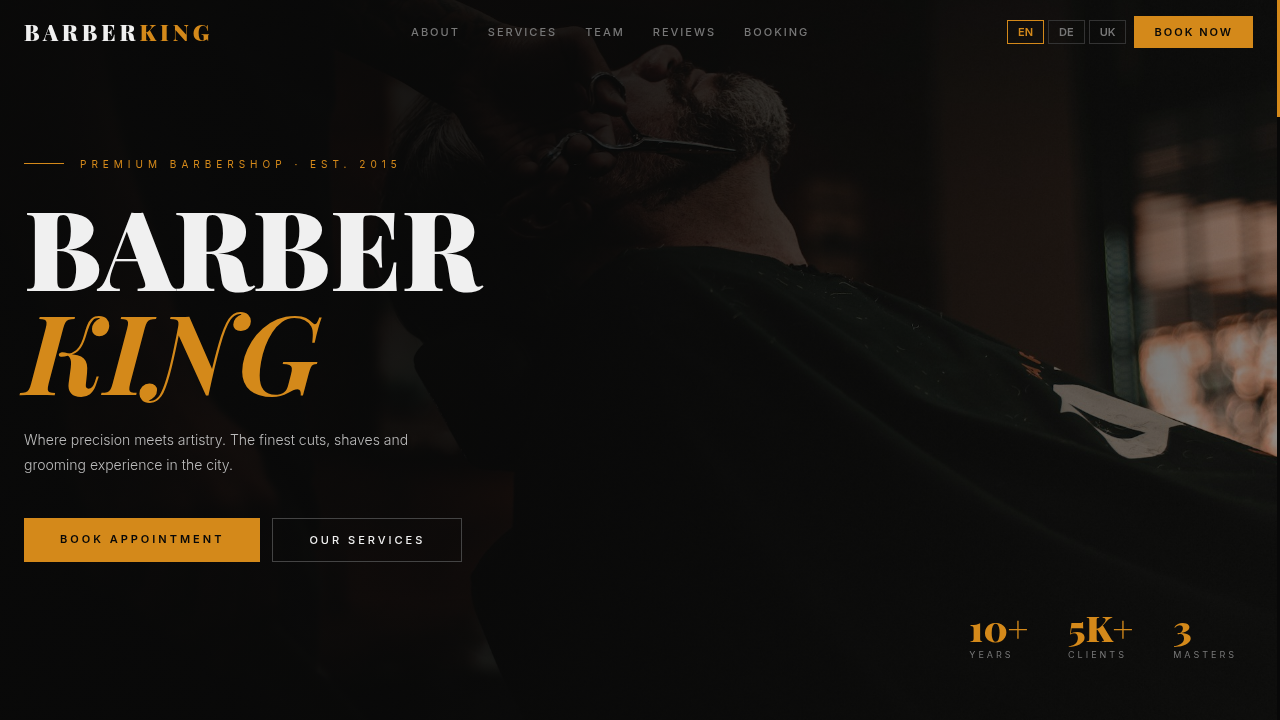
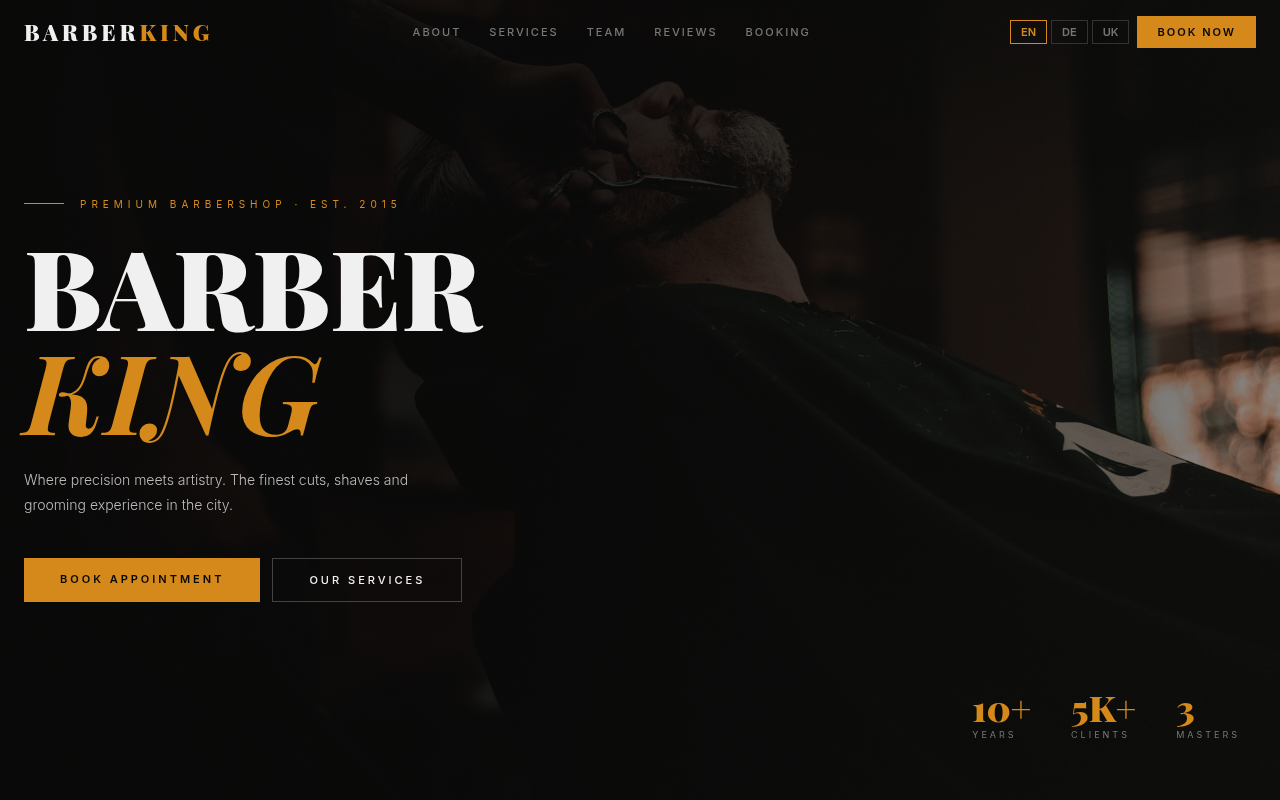
Updates

diff --git a/index.html b/index.html
@@ -1,1 +1,1 @@
-<!doctype html><html lang="en"><head><meta charset="utf-8"/><link rel="icon" href="/portfolio/favicon.ico"/><meta name="viewport" content="width=device-width,initial-scale=1"/><meta name="theme-color" content="#000000"/><meta name="description" content="Web site created using create-react-app"/><link rel="apple-touch-icon" href="/portfolio/logo192.png"/><link rel="manifest" href="/portfolio/manifest.json"/><title>React App</title><script defer="defer" src="/portfolio/static/js/main.08085f1f.js"></script><link href="/portfolio/static/css/main.17011279.css" rel="stylesheet"></head><body><noscript>You need to enable JavaScript to run this app.</noscript><div id="root"></div></body></html>
+<!doctype html><html lang="en"><head><meta charset="utf-8"/><link rel="icon" href="/portfolio/favicon.ico"/><meta name="viewport" content="width=device-width,initial-scale=1"/><meta name="theme-color" content="#000000"/><meta name="description" content="Web site created using create-react-app"/><link rel="apple-touch-icon" href="/portfolio/logo192.png"/><link rel="manifest" href="/portfolio/manifest.json"/><title>React App</title><script defer="defer" src="/portfolio/static/js/main.08085f1f.js"></script><link href="/portfolio/static/css/main.a2c620d4.css" rel="stylesheet"></head><body><noscript>You need to enable JavaScript to run this app.</noscript><div id="root"></div></body></html>

diff --git a/static/css/main.a2c620d4.css b/static/css/main.a2c620d4.css
@@ -1,0 +1,2 @@
+@layer theme, base, components, utilities;@layer theme{@theme default{--font-sans:ui-sans-serif,system-ui,sans-serif,"Apple Color Emoji","Segoe UI Emoji","Segoe UI Symbol","Noto Color Emoji";--font-serif:ui-serif,Georgia,Cambria,"Times New Roman",Times,serif;--font-mono:ui-monospace,SFMono-Regular,Menlo,Monaco,Consolas,"Liberation Mono","Courier New",monospace;--color-red-50:oklch(97.1% [phone redacted]);--color-red-100:oklch(93.6% [phone redacted]);--color-red-200:oklch(88.5% [phone redacted]);--color-red-300:oklch(80.8% [phone redacted]);--color-red-400:oklch(70.4% [phone redacted]);--color-red-500:oklch(63.7% [phone redacted]);--color-red-600:oklch(57.7% [phone redacted]);--color-red-700:oklch(50.5% [phone redacted]);--color-red-800:oklch(44.4% [phone redacted]);--color-red-900:oklch(39.6% [phone redacted]);--color-red-950:oklch(25.8% [phone redacted]);--color-orange-50:oklch(98% [phone redacted]);--color-orange-100:oklch(95.4% [phone redacted]);--color-orange-200:oklch(90.1% [phone redacted]);--color-orange-300:oklch(83.7% [phone redacted]);--color-orange-400:oklch(75% [phone redacted]);--color-orange-500:oklch(70.5% [phone redacted]);--color-orange-600:oklch(64.6% [phone redacted]);--color-orange-700:oklch(55.3% [phone redacted]);--color-orange-800:oklch(47% [phone redacted]);--color-orange-900:oklch(40.8% [phone redacted]);--color-orange-950:oklch(26.6% [phone redacted]);--color-amber-50:oklch(98.7% [phone redacted]);--color-amber-100:oklch(96.2% [phone redacted]);--color-amber-200:oklch(92.4% [phone redacted]);--color-amber-300:oklch(87.9% [phone redacted]);--color-amber-400:oklch(82.8% [phone redacted]);--color-amber-500:oklch(76.9% [phone redacted]);--color-amber-600:oklch(66.6% [phone redacted]);--color-amber-700:oklch(55.5% [phone redacted]);--color-amber-800:oklch(47.3% [phone redacted]);--color-amber-900:oklch(41.4% [phone redacted]);--color-amber-950:oklch(27.9% [phone redacted]);--color-yellow-50:oklch(98.7% [phone redacted]);--color-yellow-100:oklch(97.3% [phone redacted]);--color-yellow-200:oklch(94.5% [phone redacted]);--color-yellow-300:oklch(90.5% [phone redacted]);--color-yellow-400:oklch(85.2% [phone redacted]);--color-yellow-500:oklch(79.5% [phone redacted]);--color-yellow-600:oklch(68.1% [phone redacted]);--color-yellow-700:oklch(55.4% [phone redacted]);--color-yellow-800:oklch(47.6% [phone redacted]);--color-yellow-900:oklch(42.1% [phone redacted]);--color-yellow-950:oklch(28.6% [phone redacted]);--color-lime-50:oklch(98.6% [phone redacted]);--color-lime-100:oklch(96.7% [phone redacted]);--color-lime-200:oklch(93.8% [phone redacted]);--color-lime-300:oklch(89.7% [phone redacted]);--color-lime-400:oklch(84.1% [phone redacted]);--color-lime-500:oklch(76.8% [phone redacted]);--color-lime-600:oklch(64.8% [phone redacted]);--color-lime-700:oklch(53.2% [phone redacted]);--color-lime-800:oklch(45.3% [phone redacted]);--color-lime-900:oklch(40.5% [phone redacted]);--color-lime-950:oklch(27.4% [phone redacted]);--color-green-50:oklch(98.2% [phone redacted]);--color-green-100:oklch(96.2% [phone redacted]);--color-green-200:oklch(92.5% [phone redacted]);--color-green-300:oklch(87.1% [phone redacted]);--color-green-400:oklch(79.2% [phone redacted]);--color-green-500:oklch(72.3% [phone redacted]);--color-green-600:oklch(62.7% [phone redacted]);--color-green-700:oklch(52.7% [phone redacted]);--color-green-800:oklch(44.8% [phone redacted]);--color-green-900:oklch(39.3% [phone redacted]);--color-green-950:oklch(26.6% [phone redacted]);--color-emerald-50:oklch(97.9% [phone redacted]);--color-emerald-100:oklch(95% [phone redacted]);--color-emerald-200:oklch(90.5% [phone redacted]);--color-emerald-300:oklch(84.5% [phone redacted]);--color-emerald-400:oklch(76.5% [phone redacted]);--color-emerald-500:oklch(69.6% [phone redacted]);--color-emerald-600:oklch(59.6% [phone redacted]);--color-emerald-700:oklch(50.8% [phone redacted]);--color-emerald-800:oklch(43.2% [phone redacted]);--color-emerald-900:oklch(37.8% [phone redacted]);--color-emerald-950:oklch(26.2% [phone redacted]);--color-teal-50:oklch(98.4% [phone redacted]);--color-teal-100:oklch(95.3% [phone redacted]);--color-teal-200:oklch(91% [phone redacted]);--color-teal-300:oklch(85.5% [phone redacted]);--color-teal-400:oklch(77.7% [phone redacted]);--color-teal-500:oklch(70.4% [phone redacted]);--color-teal-600:oklch(60% [phone redacted]);--color-teal-700:oklch(51.1% [phone redacted]);--color-teal-800:oklch(43.7% [phone redacted]);--color-teal-900:oklch(38.6% [phone redacted]);--color-teal-950:oklch(27.7% [phone redacted]);--color-cyan-50:oklch(98.4% [phone redacted]);--color-cyan-100:oklch(95.6% [phone redacted]);--color-cyan-200:oklch(91.7% [phone redacted]);--color-cyan-300:oklch(86.5% [phone redacted]);--color-cyan-400:oklch(78.9% [phone redacted]);--color-cyan-500:oklch(71.5% [phone redacted]);--color-cyan-600:oklch(60.9% [phone redacted]);--color-cyan-700:oklch(52% [phone redacted]);--color-cyan-800:oklch(45% [phone redacted]);--color-cyan-900:oklch(39.8% [phone redacted]);--color-cyan-950:oklch(30.2% [phone redacted]);--color-sky-50:oklch(97.7% [phone redacted]);--color-sky-100:oklch(95.1% [phone redacted]);--color-sky-200:oklch(90.1% [phone redacted]);--color-sky-300:oklch(82.8% [phone redacted]);--color-sky-400:oklch(74.6% [phone redacted]);--color-sky-500:oklch(68.5% [phone redacted]);--color-sky-600:oklch(58.8% [phone redacted]);--color-sky-700:oklch(50% [phone redacted]);--color-sky-800:oklch(44.3% [phone redacted]);--color-sky-900:oklch(39.1% [phone redacted]);--color-sky-950:oklch(29.3% [phone redacted]);--color-blue-50:oklch(97% [phone redacted]);--color-blue-100:oklch(93.2% [phone redacted]);--color-blue-200:oklch(88.2% [phone redacted]);--color-blue-300:oklch(80.9% [phone redacted]);--color-blue-400:oklch(70.7% [phone redacted]);--color-blue-500:oklch(62.3% [phone redacted]);--color-blue-600:oklch(54.6% [phone redacted]);--color-blue-700:oklch(48.8% [phone redacted]);--color-blue-800:oklch(42.4% [phone redacted]);--color-blue-900:oklch(37.9% [phone redacted]);--color-blue-950:oklch(28.2% [phone redacted]);--color-indigo-50:oklch(96.2% [phone redacted]);--color-indigo-100:oklch(93% [phone redacted]);--color-indigo-200:oklch(87% [phone redacted]);--color-indigo-300:oklch(78.5% [phone redacted]);--color-indigo-400:oklch(67.3% [phone redacted]);--color-indigo-500:oklch(58.5% [phone redacted]);--color-indigo-600:oklch(51.1% [phone redacted]);--color-indigo-700:oklch(45.7% [phone redacted]);--color-indigo-800:oklch(39.8% [phone redacted]);--color-indigo-900:oklch(35.9% [phone redacted]);--color-indigo-950:oklch(25.7% [phone redacted]);--color-violet-50:oklch(96.9% [phone redacted]);--color-violet-100:oklch(94.3% [phone redacted]);--color-violet-200:oklch(89.4% [phone redacted]);--color-violet-300:oklch(81.1% [phone redacted]);--color-violet-400:oklch(70.2% [phone redacted]);--color-violet-500:oklch(60.6% [phone redacted]);--color-violet-600:oklch(54.1% [phone redacted]);--color-violet-700:oklch(49.1% [phone redacted]);--color-violet-800:oklch(43.2% [phone redacted]);--color-violet-900:oklch(38% [phone redacted]);--color-violet-950:oklch(28.3% [phone redacted]);--color-purple-50:oklch(97.7% [phone redacted]);--color-purple-100:oklch(94.6% [phone redacted]);--color-purple-200:oklch(90.2% [phone redacted]);--color-purple-300:oklch(82.7% [phone redacted]);--color-purple-400:oklch(71.4% [phone redacted]);--color-purple-500:oklch(62.7% [phone redacted]);--color-purple-600:oklch(55.8% [phone redacted]);--color-purple-700:oklch(49.6% [phone redacted]);--color-purple-800:oklch(43.8% [phone redacted]);--color-purple-900:oklch(38.1% [phone redacted]);--color-purple-950:oklch(29.1% [phone redacted]);--color-fuchsia-50:oklch(97.7% [phone redacted]);--color-fuchsia-100:oklch(95.2% [phone redacted]);--color-fuchsia-200:oklch(90.3% [phone redacted]);--color-fuchsia-300:oklch(83.3% [phone redacted]);--color-fuchsia-400:oklch(74% [phone redacted]);--color-fuchsia-500:oklch(66.7% [phone redacted]);--color-fuchsia-600:oklch(59.1% [phone redacted]);--color-fuchsia-700:oklch(51.8% [phone redacted]);--color-fuchsia-800:oklch(45.2% [phone redacted]);--color-fuchsia-900:oklch(40.1% [phone redacted]);--color-fuchsia-950:oklch(29.3% [phone redacted]);--color-pink-50:oklch(97.1% [phone redacted]);--color-pink-100:oklch(94.8% [phone redacted]);--color-pink-200:oklch(89.9% [phone redacted]);--color-pink-300:oklch(82.3% [phone redacted]);--color-pink-400:oklch(71.8% [phone redacted]);--color-pink-500:oklch(65.6% [phone redacted]);--color-pink-600:oklch(59.2% [phone redacted]);--color-pink-700:oklch(52.5% [phone redacted]);--color-pink-800:oklch(45.9% [phone redacted]);--color-pink-900:oklch(40.8% [phone redacted]);--color-pink-950:oklch(28.4% [phone redacted]);--color-rose-50:oklch(96.9% [phone redacted]);--color-rose-100:oklch(94.1% [phone redacted]);--color-rose-200:oklch(89.2% [phone redacted]);--color-rose-300:oklch(81% [phone redacted]);--color-rose-400:oklch(71.2% [phone redacted]);--color-rose-500:oklch(64.5% [phone redacted]);--color-rose-600:oklch(58.6% [phone redacted]);--color-rose-700:oklch(51.4% [phone redacted]);--color-rose-800:oklch(45.5% [phone redacted]);--color-rose-900:oklch(41% [phone redacted]);--color-rose-950:oklch(27.1% [phone redacted]);--color-slate-50:oklch(98.4% [phone redacted]);--color-slate-100:oklch(96.8% [phone redacted]);--color-slate-200:oklch(92.9% [phone redacted]);--color-slate-300:oklch(86.9% [phone redacted]);--color-slate-400:oklch(70.4% [phone redacted]);--color-slate-500:oklch(55.4% [phone redacted]);--color-slate-600:oklch(44.6% [phone redacted]);--color-slate-700:oklch(37.2% [phone redacted]);--color-slate-800:oklch(27.9% [phone redacted]);--color-slate-900:oklch(20.8% [phone redacted]);--color-slate-950:oklch(12.9% [phone redacted]);--color-gray-50:oklch(98.5% [phone redacted]);--color-gray-100:oklch(96.7% [phone redacted]);--color-gray-200:oklch(92.8% [phone redacted]);--color-gray-300:oklch(87.2% [phone redacted]);--color-gray-400:oklch(70.7% [phone redacted]);--color-gray-500:oklch(55.1% [phone redacted]);--color-gray-600:oklch(44.6% [phone redacted]);--color-gray-700:oklch(37.3% [phone redacted]);--color-gray-800:oklch(27.8% [phone redacted]);--color-gray-900:oklch(21% [phone redacted]);--color-gray-950:oklch(13% [phone redacted]);--color-zinc-50:oklch(98.5% 0 0);--color-zinc-100:oklch(96.7% [phone redacted]);--color-zinc-200:oklch(92% [phone redacted]);--color-zinc-300:oklch(87.1% [phone redacted]);--color-zinc-400:oklch(70.5% [phone redacted]);--color-zinc-500:oklch(55.2% [phone redacted]);--color-zinc-600:oklch(44.2% [phone redacted]);--color-zinc-700:oklch(37% [phone redacted]);--color-zinc-800:oklch(27.4% [phone redacted]);--color-zinc-900:oklch(21% [phone redacted]);--color-zinc-950:oklch(14.1% [phone redacted]);--color-neutral-50:oklch(98.5% 0 0);--color-neutral-100:oklch(97% 0 0);--color-neutral-200:oklch(92.2% 0 0);--color-neutral-300:oklch(87% 0 0);--color-neutral-400:oklch(70.8% 0 0);--color-neutral-500:oklch(55.6% 0 0);--color-neutral-600:oklch(43.9% 0 0);--color-neutral-700:oklch(37.1% 0 0);--color-neutral-800:oklch(26.9% 0 0);--color-neutral-900:oklch(20.5% 0 0);--color-neutral-950:oklch(14.5% 0 0);--color-stone-50:oklch(98.5% [phone redacted]);--color-stone-100:oklch(97% [phone redacted]);--color-stone-200:oklch(92.3% [phone redacted]);--color-stone-300:oklch(86.9% [phone redacted]);--color-stone-400:oklch(70.9% [phone redacted]);--color-stone-500:oklch(55.3% [phone redacted]);--color-stone-600:oklch(44.4% [phone redacted]);--color-stone-700:oklch(37.4% [phone redacted]);--color-stone-800:oklch(26.8% [phone redacted]);--color-stone-900:oklch(21.6% [phone redacted]);--color-stone-950:oklch(14.7% [phone redacted]);--color-mauve-50:oklch(98.5% 0 0);--color-mauve-100:oklch(96% [phone redacted]);--color-mauve-200:oklch(92.2% [phone redacted]);--color-mauve-300:oklch(86.5% [phone redacted]);--color-mauve-400:oklch(71.1% [phone redacted]);--color-mauve-500:oklch(54.2% [phone redacted]);--color-mauve-600:oklch(43.5% [phone redacted]);--color-mauve-700:oklch(36.4% [phone redacted]);--color-mauve-800:oklch(26.3% [phone redacted]);--color-mauve-900:oklch(21.2% [phone redacted]);--color-mauve-950:oklch(14.5% [phone redacted]);--color-olive-50:oklch(98.8% [phone redacted]);--color-olive-100:oklch(96.6% [phone redacted]);--color-olive-200:oklch(93% [phone redacted]);--color-olive-300:oklch(88% [phone redacted]);--color-olive-400:oklch(73.7% [phone redacted]);--color-olive-500:oklch(58% [phone redacted]);--color-olive-600:oklch(46.6% [phone redacted]);--color-olive-700:oklch(39.4% [phone redacted]);--color-olive-800:oklch(28.6% [phone redacted]);--color-olive-900:oklch(22.8% [phone redacted]);--color-olive-950:oklch(15.3% [phone redacted]);--color-mist-50:oklch(98.7% [phone redacted]);--color-mist-100:oklch(96.3% [phone redacted]);--color-mist-200:oklch(92.5% [phone redacted]);--color-mist-300:oklch(87.2% [phone redacted]);--color-mist-400:oklch(72.3% [phone redacted]);--color-mist-500:oklch(56% [phone redacted]);--color-mist-600:oklch(45% [phone redacted]);--color-mist-700:oklch(37.8% [phone redacted]);--color-mist-800:oklch(27.5% [phone redacted]);--color-mist-900:oklch(21.8% [phone redacted]);--color-mist-950:oklch(14.8% [phone redacted]);--color-taupe-50:oklch(98.6% [phone redacted]);--color-taupe-100:oklch(96% [phone redacted]);--color-taupe-200:oklch(92.2% [phone redacted]);--color-taupe-300:oklch(86.8% [phone redacted]);--color-taupe-400:oklch(71.4% [phone redacted]);--color-taupe-500:oklch(54.7% [phone redacted]);--color-taupe-600:oklch(43.8% [phone redacted]);--color-taupe-700:oklch(36.7% [phone redacted]);--color-taupe-800:oklch(26.8% [phone redacted]);--color-taupe-900:oklch(21.4% [phone redacted]);--color-taupe-950:oklch(14.7% [phone redacted]);--color-black:#000;--color-white:#fff;--spacing:0.25rem;--breakpoint-sm:40rem;--breakpoint-md:48rem;--breakpoint-lg:64rem;--breakpoint-xl:80rem;--breakpoint-2xl:96rem;--container-3xs:16rem;--container-2xs:18rem;--container-xs:20rem;--container-sm:24rem;--container-md:28rem;--container-lg:32rem;--container-xl:36rem;--container-2xl:42rem;--container-3xl:48rem;--container-4xl:56rem;--container-5xl:64rem;--container-6xl:72rem;--container-7xl:80rem;--text-xs:0.75rem;--text-xs--line-height:1.33333;--text-sm:0.875rem;--text-sm--line-height:1.42857;--text-base:1rem;--text-base--line-height:1.5;--text-lg:1.125rem;--text-lg--line-height:1.55556;--text-xl:1.25rem;--text-xl--line-height:1.4;--text-2xl:1.5rem;--text-2xl--line-height:1.33333;--text-3xl:1.875rem;--text-3xl--line-height:1.2;--text-4xl:2.25rem;--text-4xl--line-height:1.11111;--text-5xl:3rem;--text-5xl--line-height:1;--text-6xl:3.75rem;--text-6xl--line-height:1;--text-7xl:4.5rem;--text-7xl--line-height:1;--text-8xl:6rem;--text-8xl--line-height:1;--text-9xl:8rem;--text-9xl--line-height:1;--font-weight-thin:100;--font-weight-extralight:200;--font-weight-light:300;--font-weight-normal:400;--font-weight-medium:500;--font-weight-semibold:600;--font-weight-bold:700;--font-weight-extrabold:800;--font-weight-black:900;--tracking-tighter:-0.05em;--tracking-tight:-0.025em;--tracking-normal:0em;--tracking-wide:0.025em;--tracking-wider:0.05em;--tracking-widest:0.1em;--leading-tight:1.25;--leading-snug:1.375;--leading-normal:1.5;--leading-relaxed:1.625;--leading-loose:2;--radius-xs:0.125rem;--radius-sm:0.25rem;--radius-md:0.375rem;--radius-lg:0.5rem;--radius-xl:0.75rem;--radius-2xl:1rem;--radius-3xl:1.5rem;--radius-4xl:2rem;--shadow-2xs:0 1px #0000000d;--shadow-xs:0 1px 2px 0 #0000000d;--shadow-sm:0 1px 3px 0 #0000001a,0 1px 2px -1px #0000001a;--shadow-md:0 4px 6px -1px #0000001a,0 2px 4px -2px #0000001a;--shadow-lg:0 10px 15px -3px #0000001a,0 4px 6px -4px #0000001a;--shadow-xl:0 20px 25px -5px #0000001a,0 8px 10px -6px #0000001a;--shadow-2xl:0 25px 50px -12px #[phone redacted];--inset-shadow-2xs:inset 0 1px #0000000d;--inset-shadow-xs:inset 0 1px 1px #0000000d;--inset-shadow-sm:inset 0 2px 4px #0000000d;--drop-shadow-xs:0 1px 1px #0000000d;--drop-shadow-sm:0 1px 2px #[phone redacted];--drop-shadow-md:0 3px 3px #0000001f;--drop-shadow-lg:0 4px 4px #[phone redacted];--drop-shadow-xl:0 9px 7px #0000001a;--drop-shadow-2xl:0 25px 25px #[phone redacted];--text-shadow-2xs:0px 1px 0px #[phone redacted];--text-shadow-xs:0px 1px 1px #0003;--text-shadow-sm:0px 1px 0px rgba(0,0,0,.075),0px 1px 1px rgba(0,0,0,.075),0px 2px 2px rgba(0,0,0,.075);--text-shadow-md:0px 1px 1px #0000001a,0px 1px 2px #0000001a,0px 2px 4px #0000001a;--text-shadow-lg:0px 1px 2px #0000001a,0px 3px 2px #0000001a,0px 4px 8px #0000001a;--ease-in:cubic-bezier(0.4,0,1,1);--ease-out:cubic-bezier(0,0,0.2,1);--ease-in-out:cubic-bezier(0.4,0,0.2,1);--animate-spin:spin 1s linear infinite;--animate-ping:ping 1s cubic-bezier(0,0,0.2,1) infinite;--animate-pulse:pulse 2s cubic-bezier(0.4,0,0.6,1) infinite;--animate-bounce:bounce 1s infinite;@keyframes spin{to{transform:rotate(1turn)}}@keyframes ping{75%,to{opacity:0;transform:scale(2)}}@keyframes bounce{0%,to{animation-timing-function:cubic-bezier(.8,0,1,1);transform:translateY(-25%)}50%{animation-timing-function:cubic-bezier(0,0,.2,1);transform:none}}--blur-xs:4px;--blur-sm:8px;--blur-md:12px;--blur-lg:16px;--blur-xl:24px;--blur-2xl:40px;--blur-3xl:64px;--perspective-dramatic:100px;--perspective-near:300px;--perspective-normal:500px;--perspective-midrange:800px;--perspective-distant:1200px;--aspect-video:16/9;--default-transition-duration:150ms;--default-transition-timing-function:cubic-bezier(0.4,0,0.2,1);--default-font-family:--theme(--font-sans,initial);--default-font-feature-settings:--theme(--font-sans--font-feature-settings,initial);--default-font-variation-settings:--theme(--font-sans--font-variation-settings,initial);--default-mono-font-family:--theme(--font-mono,initial);--default-mono-font-feature-settings:--theme(--font-mono--font-feature-settings,initial);--default-mono-font-variation-settings:--theme(--font-mono--font-variation-settings,initial)}@theme default inline reference{--blur:8px;--shadow:0 1px 3px 0 #0000001a,0 1px 2px -1px #0000001a;--shadow-inner:inset 0 2px 4px 0 #0000000d;--drop-shadow:0 1px 2px #0000001a,0 1px 1px #0000000f;--radius:0.25rem;--max-width-prose:65ch}}@layer base{::-webkit-file-upload-button{border:0 solid;box-sizing:border-box;margin:0;padding:0}*,::backdrop,::file-selector-button,:after,:before{border:0 solid;box-sizing:border-box;margin:0;padding:0}:host,html{-webkit-text-size-adjust:100%;font-feature-settings:--theme(--default-font-feature-settings,normal);-webkit-tap-highlight-color:transparent;font-family:--theme(--default-font-family,ui-sans-serif,system-ui,sans-serif,"Apple Color Emoji","Segoe UI Emoji","Segoe UI Symbol","Noto Color Emoji");font-variation-settings:--theme(--default-font-variation-settings,normal);line-height:1.5;tab-size:4}hr{border-top-width:1px;color:inherit;height:0}abbr:where([title]){-webkit-text-decoration:underline dotted;text-decoration:underline dotted}h1,h2,h3,h4,h5,h6{font-size:inherit;font-weight:inherit}a{color:inherit;-webkit-text-decoration:inherit;text-decoration:inherit}b,strong{font-weight:bolder}code,kbd,pre,samp{font-feature-settings:--theme(--default-mono-font-feature-settings,normal);font-family:--theme(--default-mono-font-family,ui-monospace,SFMono-Regular,Menlo,Monaco,Consolas,"Liberation Mono","Courier New",monospace);font-size:1em;font-variation-settings:--theme(--default-mono-font-variation-settings,normal)}small{font-size:80%}sub,sup{font-size:75%;line-height:0;position:relative;vertical-align:initial}sub{bottom:-.25em}sup{top:-.5em}table{border-collapse:collapse;border-color:inherit;text-indent:0}:-moz-focusring{outline:auto}progress{vertical-align:initial}summary{display:list-item}menu,ol,ul{list-style:none}audio,canvas,embed,iframe,img,object,svg,video{display:block;vertical-align:middle}img,video{height:auto;max-width:100%}::-webkit-file-upload-button{font-feature-settings:inherit;background-color:initial;border-radius:0;color:inherit;font:inherit;font-variation-settings:inherit;letter-spacing:inherit;opacity:1}::file-selector-button,button,input,optgroup,select,textarea{font-feature-settings:inherit;background-color:initial;border-radius:0;color:inherit;font:inherit;font-variation-settings:inherit;letter-spacing:inherit;opacity:1}:where(select:is([multiple],[size])) optgroup{font-weight:bolder}:where(select:is([multiple],[size])) optgroup option{-webkit-padding-start:20px;padding-inline-start:20px}::-webkit-file-upload-button{-webkit-margin-end:4px;margin-inline-end:4px}::file-selector-button{-webkit-margin-end:4px;margin-inline-end:4px}::placeholder{opacity:1}@supports (not (-webkit-appearance:-apple-pay-button)) or (contain-intrinsic-size:1px){::placeholder{color:color-mix(in oklab,currentcolor 50%,#0000)}}textarea{resize:vertical}::-webkit-search-decoration{-webkit-appearance:none}::-webkit-date-and-time-value{min-height:1lh;text-align:inherit}::-webkit-datetime-edit{display:inline-flex}::-webkit-datetime-edit-fields-wrapper{padding:0}::-webkit-datetime-edit,::-webkit-datetime-edit-day-field,::-webkit-datetime-edit-hour-field,::-webkit-datetime-edit-meridiem-field,::-webkit-datetime-edit-millisecond-field,::-webkit-datetime-edit-minute-field,::-webkit-datetime-edit-month-field,::-webkit-datetime-edit-second-field,::-webkit-datetime-edit-year-field{padding-block:0}::-webkit-calendar-picker-indicator{line-height:1}:-moz-ui-invalid{box-shadow:none}::-webkit-file-upload-button{-webkit-appearance:button;appearance:button}::file-selector-button,button,input:where([type=button],[type=reset],[type=submit]){-webkit-appearance:button;appearance:button}::-webkit-inner-spin-button,::-webkit-outer-spin-button{height:auto}[hidden]:where(:not([hidden=until-found])){display:none!important}}@layer utilities{@tailwind utilities}@keyframes ticker{0%{transform:translateX(0)}to{transform:translateX(-33.333%)}}@keyframes floatCard{0%{transform:translateY(0)}to{transform:translateY(-12px)}}@keyframes pulse{0%,to{opacity:1;transform:scale(1)}50%{opacity:.5;transform:scale(.75)}}body,html{overflow-x:hidden}*{box-sizing:border-box}.mob-hamburger{display:none!important}@media (max-width:768px){.blob-1,.blob-2{display:none!important}body{background:linear-gradient(160deg,#f5f5f5,#eceaea 40%,#e8e8e8)!important;min-height:100vh}.mob-hamburger{display:flex!important}.nav-links{display:none!important}.nav-inner{padding:0 16px!important}.nav-logo{font-size:18px!important}.lang-btn{font-size:13px!important;padding:4px 9px!important}.lang-btns{gap:4px!important}.mob-menu a{font-size:16px!important;padding:14px 0!important}.hero-pad{padding:36px 20px 28px!important}.hero-layout{flex-direction:column!important;gap:0!important}.hero-visual{display:none!important}.hero-h1{font-size:clamp(2rem,8vw,2.8rem)!important}.hero-subtitle{font-size:18px!important;font-weight:500!important}.hero-bio{font-size:15px!important;line-height:1.6!important}.hero-tags{display:flex!important;flex-wrap:wrap!important;gap:8px!important}.hero-tag{border-radius:20px!important;font-size:13px!important;padding:6px 12px!important;width:auto!important}.cta-wrap{display:flex!important;flex-wrap:wrap!important;gap:12px!important}.cta-wrap a{border-radius:8px!important;flex:1 1!important;font-size:14px!important;max-width:180px!important;padding:12px 24px!important;text-align:center!important;width:auto!important}.skill-cards{grid-gap:8px!important;display:grid!important;gap:8px!important;grid-template-columns:repeat(3,1fr)!important}.skill-card{flex-shrink:1!important;padding:12px 8px!important;width:auto!important}.skill-icon{font-size:10px!important;height:36px!important;width:36px!important}.skill-name{font-size:11px!important}.proj-grid{grid-template-columns:1fr!important}.proj-card{padding:0!important;touch-action:manipulation}.services-grid{font-size:14px!important;grid-template-columns:repeat(2,1fr)!important}.contact-card{padding:20px!important}.section-pad{padding:60px 20px!important}.section-head{margin-bottom:20px!important}.section-head h2{font-size:clamp(1.6rem,6vw,2.2rem)!important}}@media (max-width:400px){.lang-btns{display:none!important}}.navbar{backdrop-filter:blur(20px);-webkit-backdrop-filter:blur(20px);background:#ebebebbf;border-bottom:1px solid #[phone redacted];position:-webkit-sticky;position:sticky;top:0;z-index:100}.hero-visual-card{animation:floatCard 4s ease-in-out infinite alternate}.services-grid{grid-gap:12px;display:grid;gap:12px;grid-template-columns:repeat(2,1fr)}.skill-cards{display:flex;flex-wrap:wrap;gap:10px}.cp-container{max-width:64rem;padding:2rem 0;width:100%}.cp-grid{grid-gap:4rem;display:grid;gap:4rem}.cp-image-container{aspect-ratio:16/10;perspective:1000px;position:relative;width:100%}.cp-image{box-shadow:0 12px 36px #0000002e;object-fit:cover;object-position:top center}.cp-image,.cp-placeholder{border-radius:1.25rem;height:100%;position:absolute;width:100%}.cp-placeholder{align-items:center;background:#0000000f;color:#0003;display:flex;font-size:10px;font-weight:700;justify-content:center;letter-spacing:3px;text-transform:uppercase}.cp-content{display:flex;flex-direction:column;justify-content:space-between;min-height:22rem}.cp-title{font-weight:900;letter-spacing:-.3px;margin-bottom:.25rem}.cp-tags{display:flex;flex-wrap:wrap;gap:6px;margin-bottom:1.5rem}.cp-tag{background:#[phone redacted];border-radius:6px;color:#333;font-size:11px;font-weight:600;padding:2px 10px}.cp-description{flex:1 1;line-height:1.8}.cp-footer{align-items:center;display:flex;flex-wrap:wrap;gap:1rem;justify-content:space-between;padding-top:2rem}.cp-link{align-items:center;border-radius:8px;display:inline-flex;font-size:13px;font-weight:700;gap:6px;padding:10px 20px;text-decoration:none;transition:opacity .2s}.cp-link:hover{opacity:.8}.cp-arrow-buttons{display:flex;gap:1rem}.cp-arrow-button{align-items:center;border:none;border-radius:50%;cursor:pointer;display:flex;height:2.7rem;justify-content:center;transition:background-color .3s;width:2.7rem}.cp-counter{font-size:12px;font-weight:600;letter-spacing:1px;opacity:.45}@media (min-width:768px){.cp-grid{gap:5rem;grid-template-columns:1fr 1fr}.cp-footer{padding-top:0}}.contact-card{backdrop-filter:blur(20px);-webkit-backdrop-filter:blur(20px);background:#ffffff8c;border:1px solid #fffc;border-radius:20px;box-shadow:0 8px 32px #[phone redacted];padding:48px}
+/*# sourceMappingURL=main.a2c620d4.css.map*/